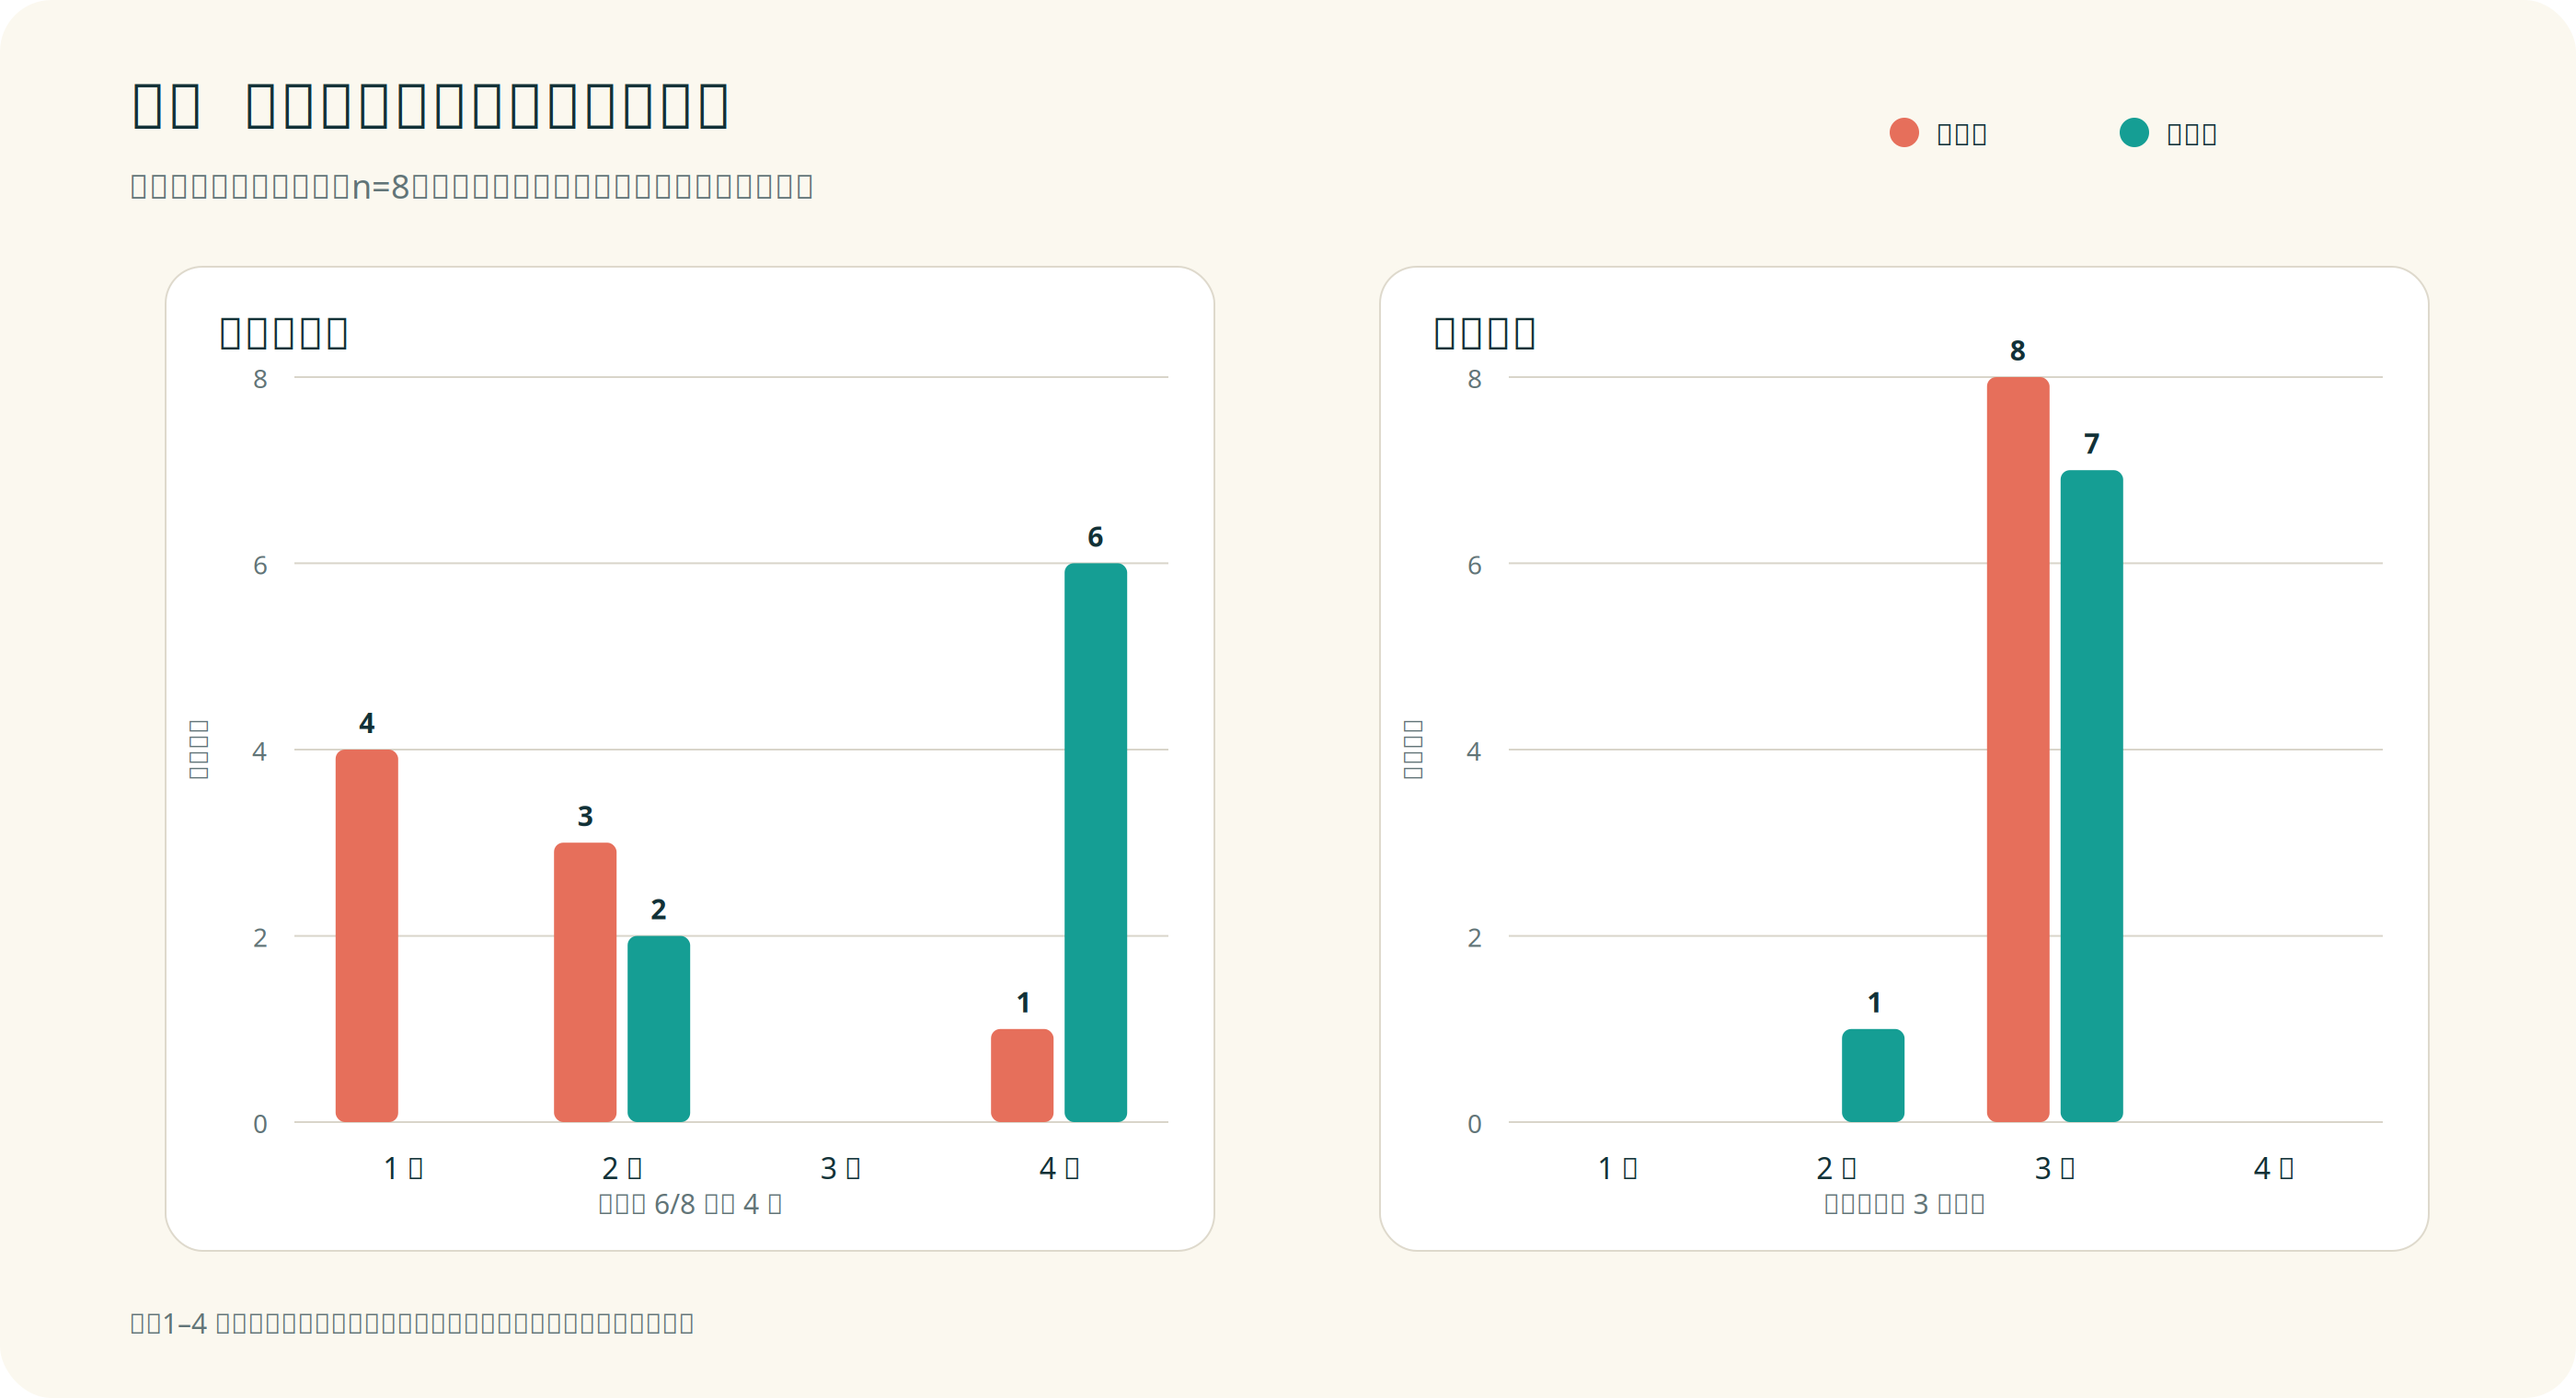
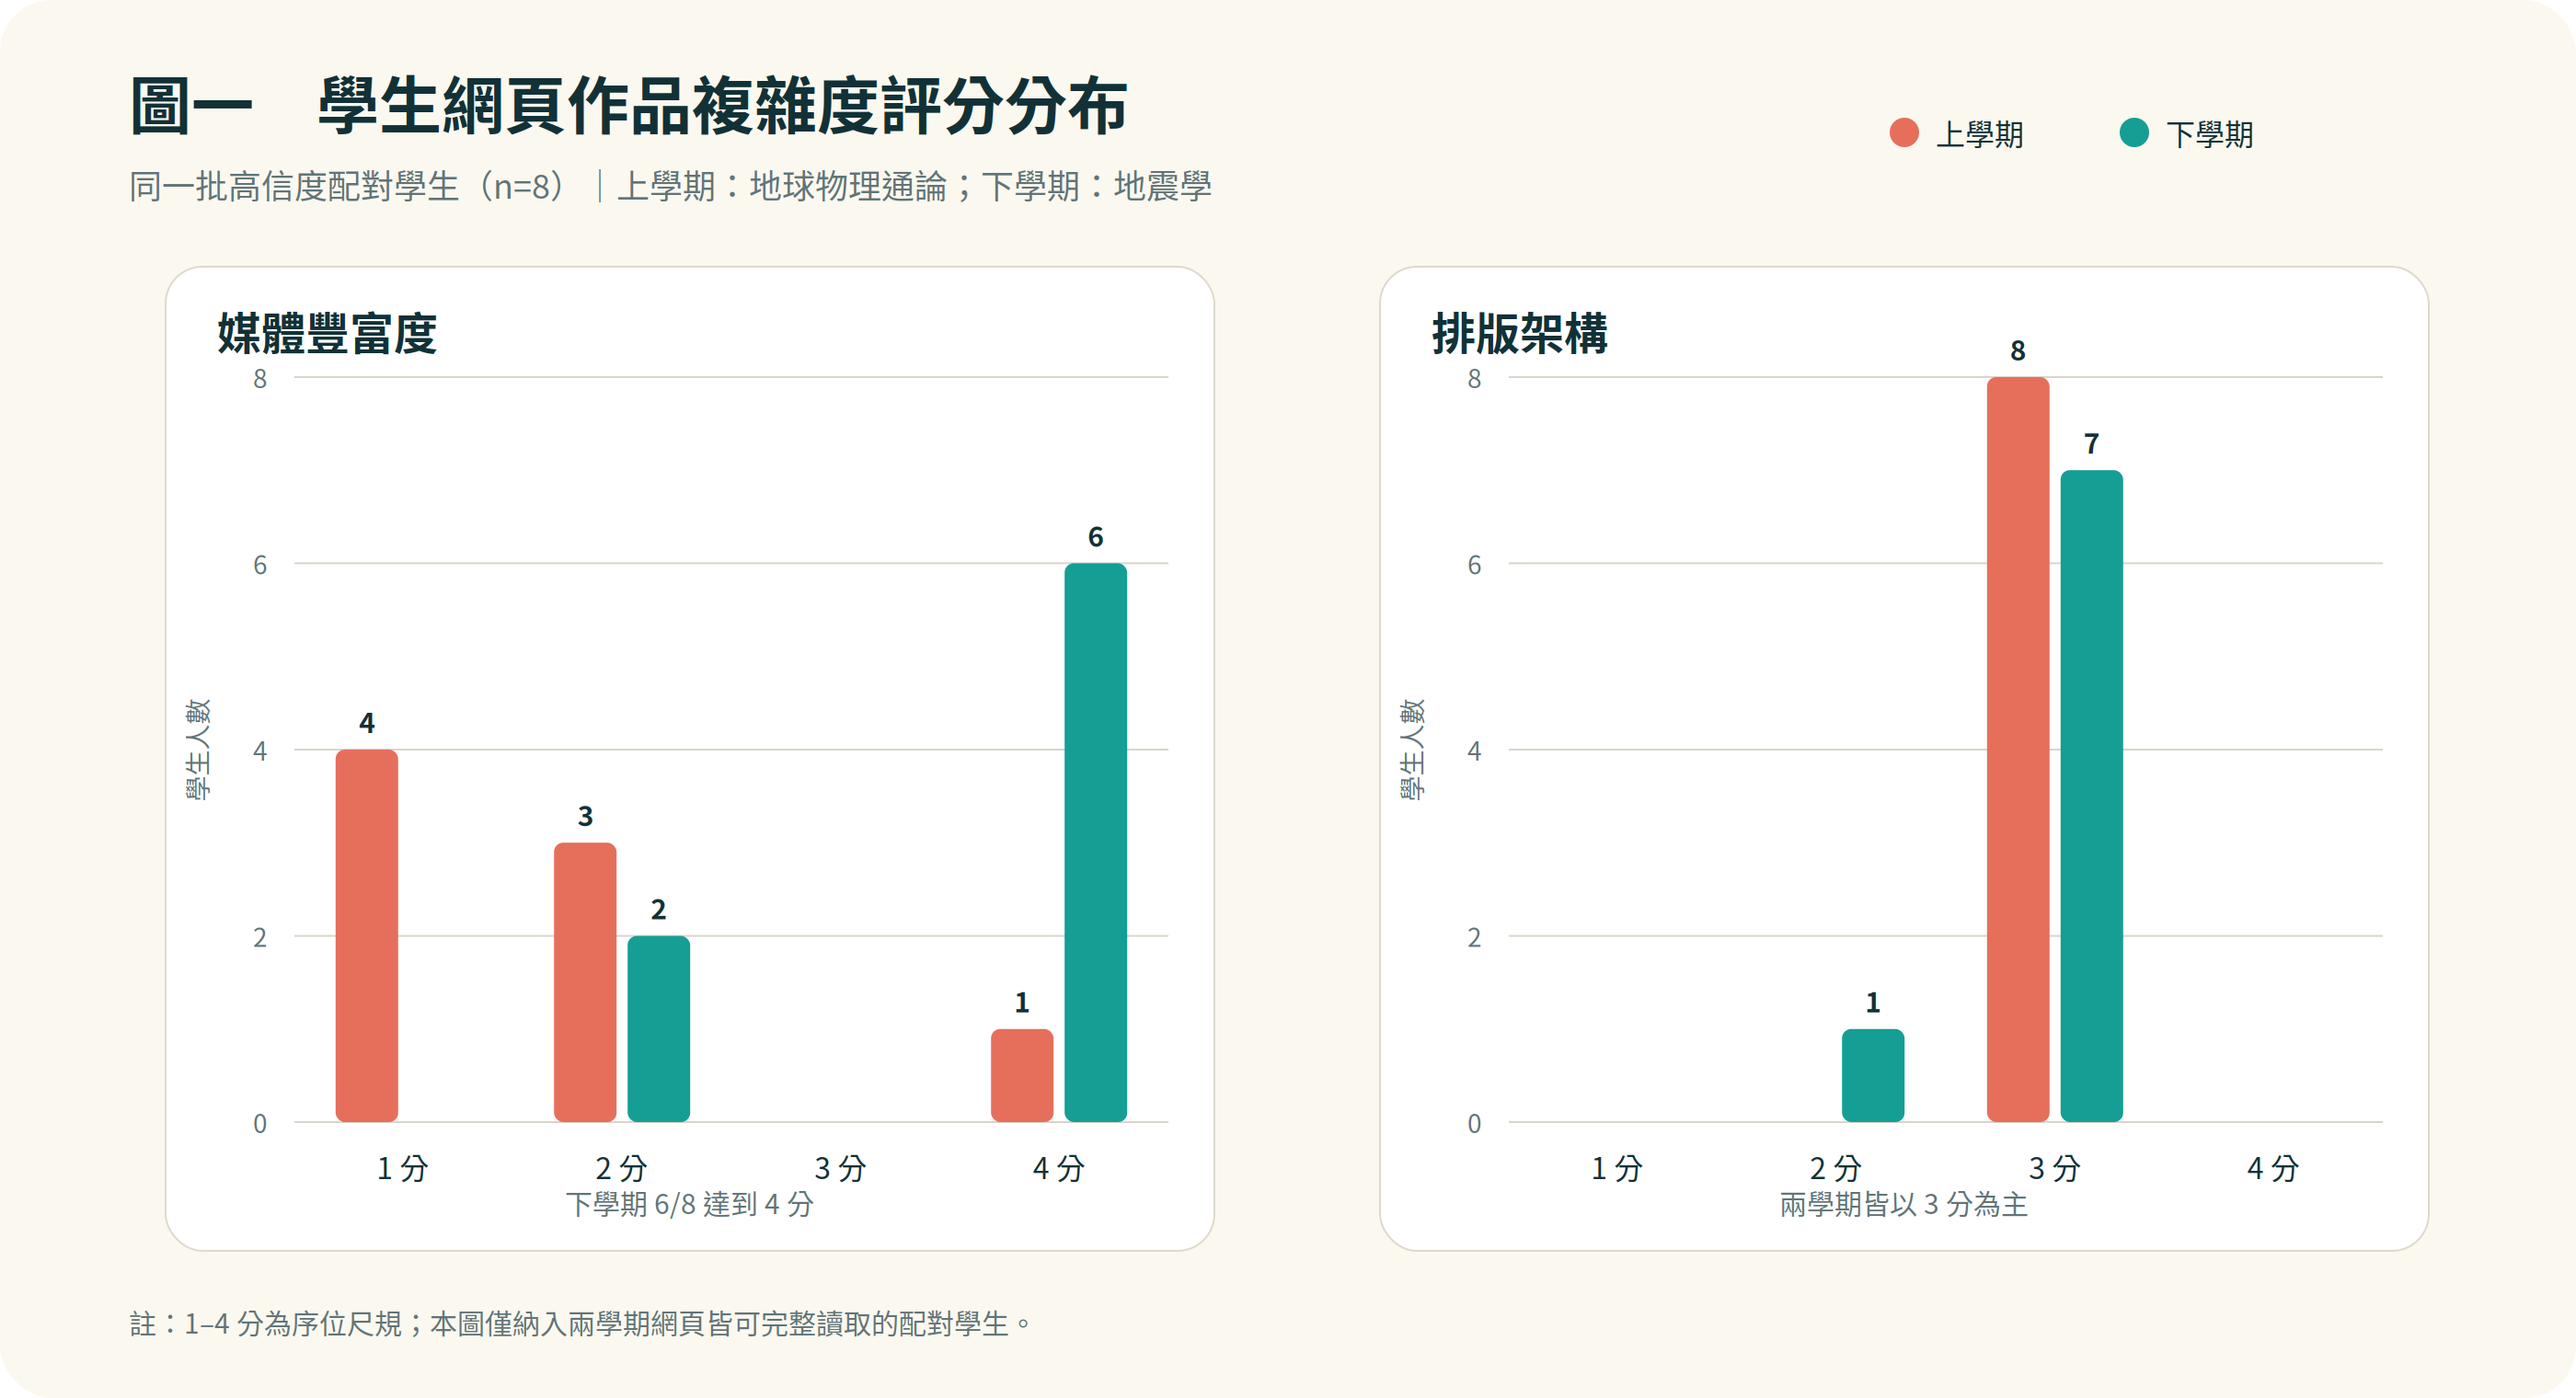
Fix Chinese font rendering in PNG figures

diff --git a/build_figures.py b/build_figures.py
@@ -19,7 +19,7 @@ PAPER = "#fbf8ef"
 UPPER = "#e66f5b"
 LOWER = "#159e94"
 GOLD = "#d7aa4b"
-FONT = "system-ui,-apple-system,'Segoe UI','Noto Sans TC',sans-serif"
+FONT = "'Noto Sans CJK TC','Noto Sans TC','WenQuanYi Micro Hei',sans-serif"
 
 
 def esc(value) -> str:
